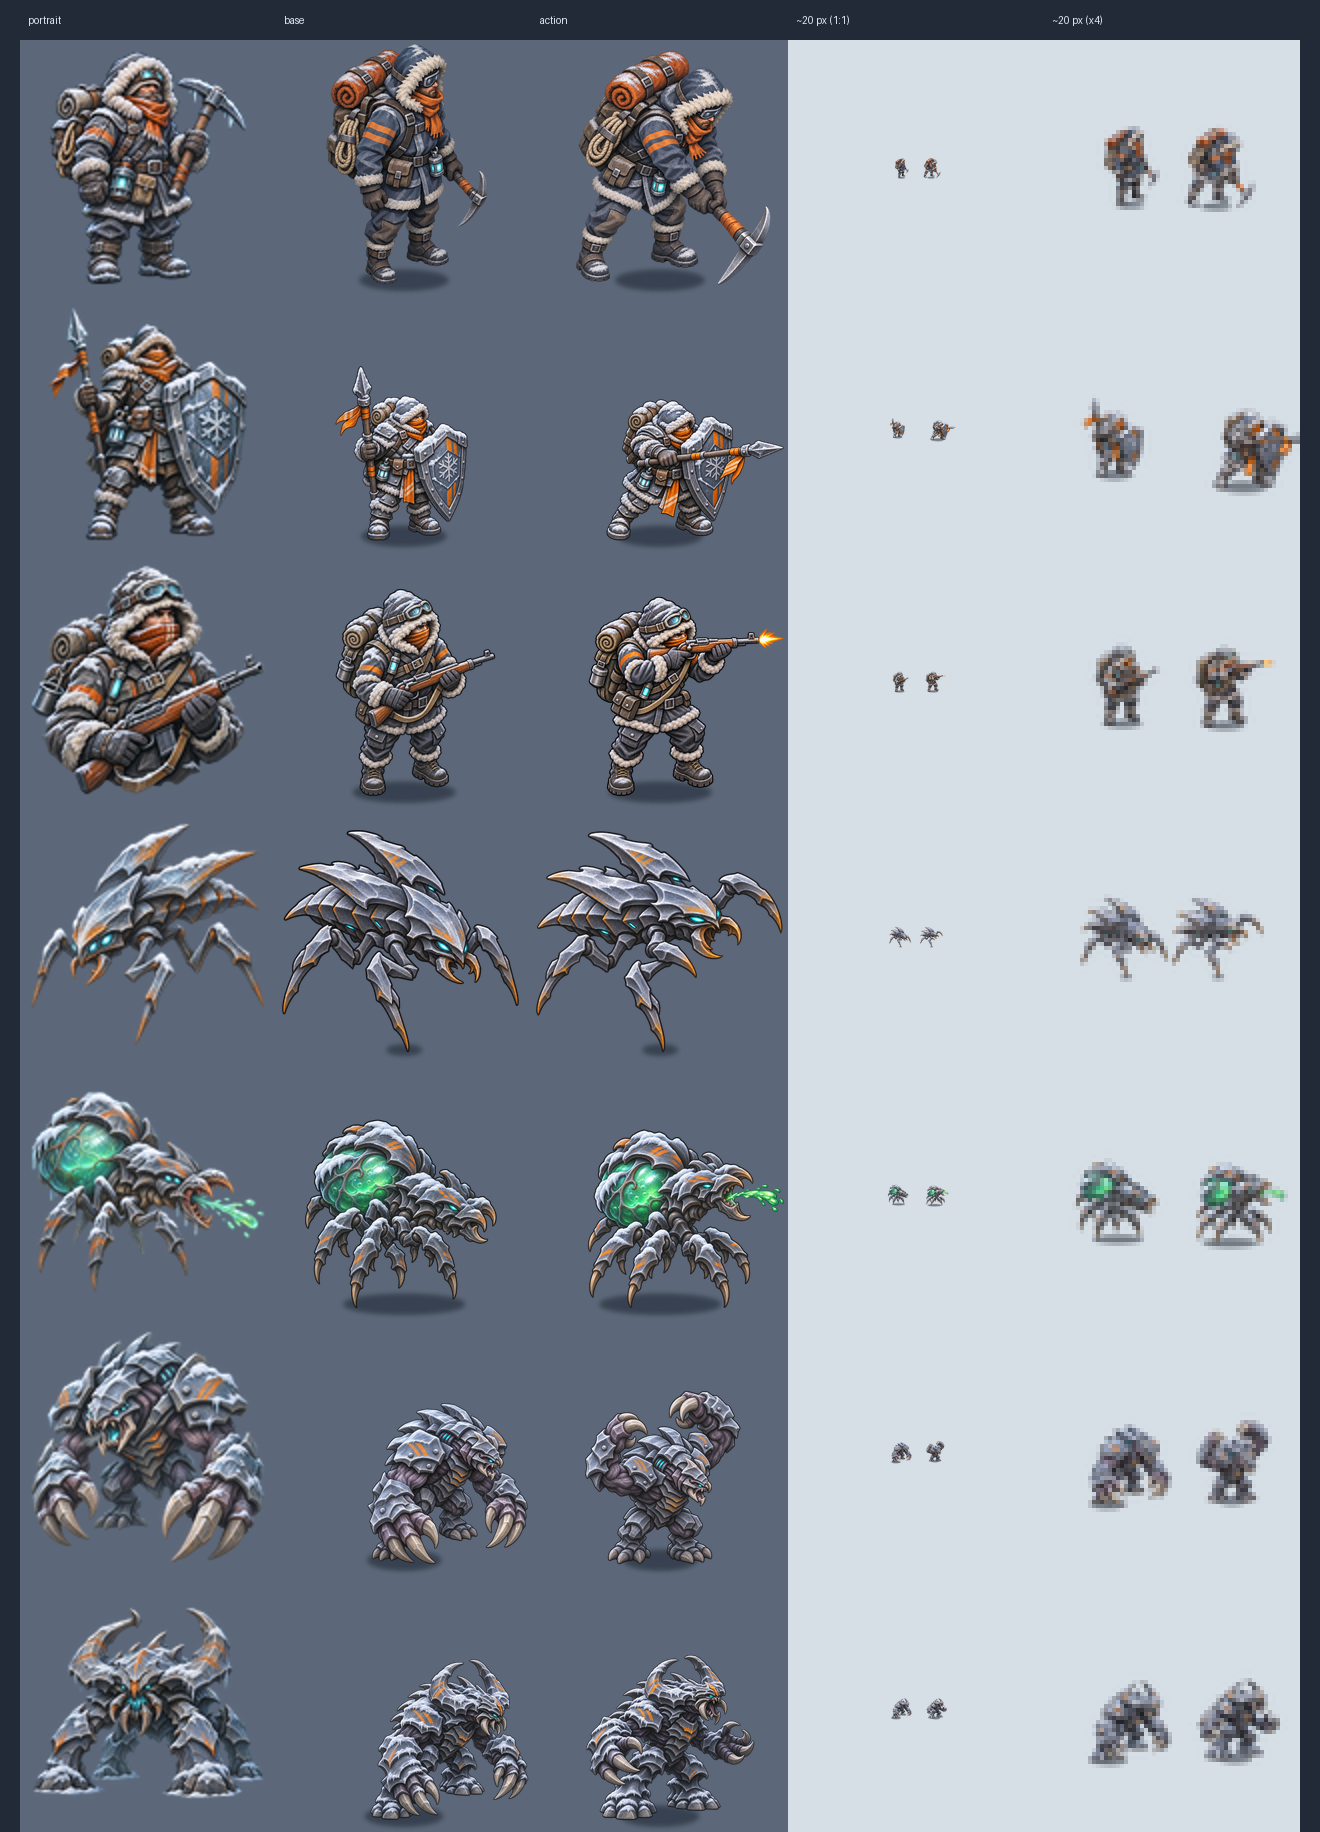
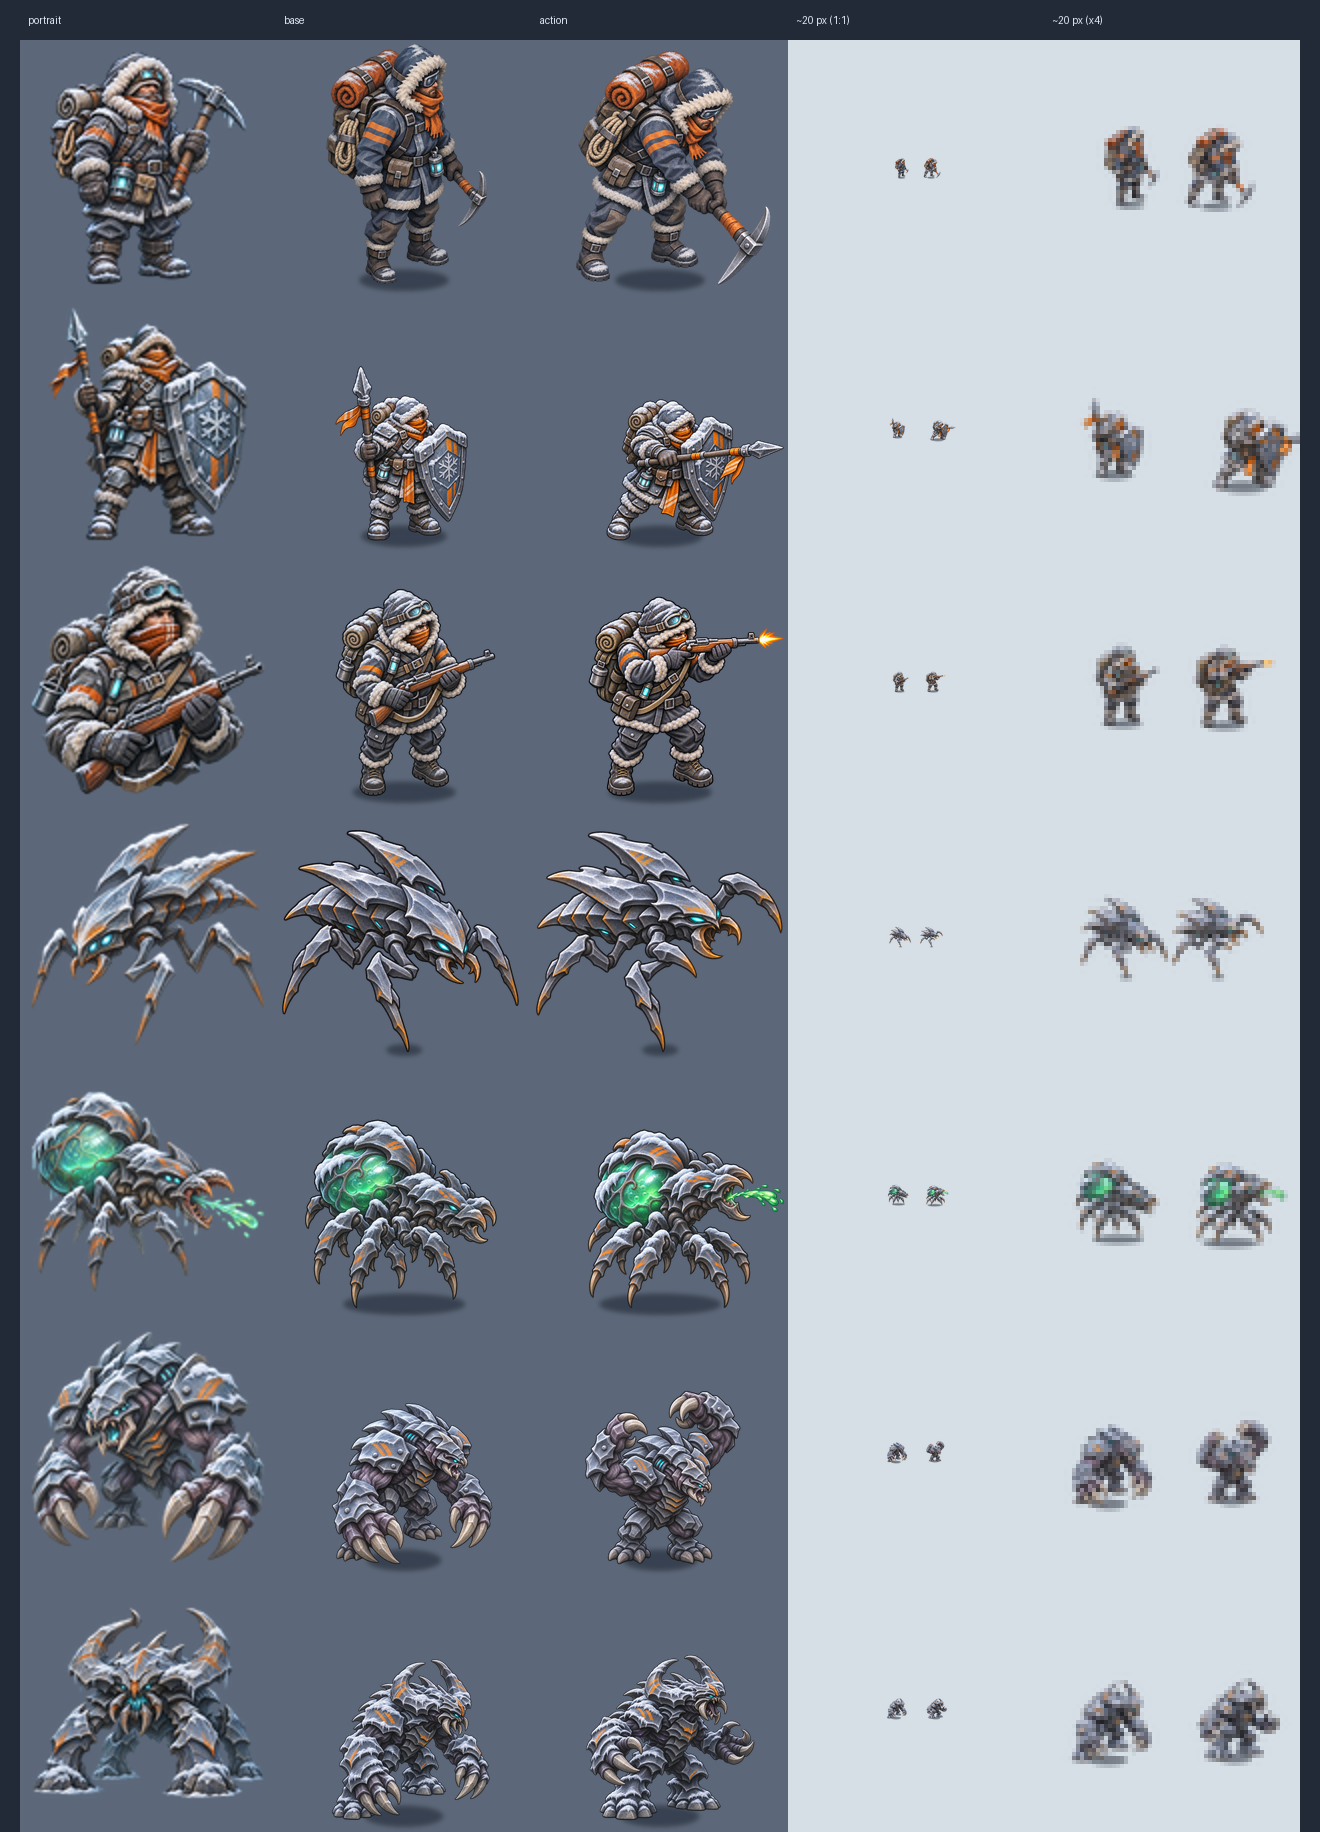
art: re-anchor Brute and Behemoth base poses over their shadow (HPA-1210)
feet() anchors the lowest 8% silhouette band, which for the Brute and
Behemoth base poses is a forward claw rather than the planted stance, so
those bodies sat ~70 px right of the baked shadow while their action
poses were centred. process.py gains an explicit per-pose OFFSET_FIX
(brute -71 px, behemoth -77 px) applied at paste time; --verify checks
those two poses against their explicit anchor. New contact sheet
anchor_check.png compares base vs action at one canvas scale/origin.

diff --git a/art-src/2026-11-26/process.py b/art-src/2026-11-26/process.py
@@ -33,6 +33,10 @@ FEET_Y = SIZE - 24  # bottom of the feet; room below for the shadow
 MARGIN = 8
 # Calibration knob: per-image scale multiplier if a raw pose came back at a different body scale.
 SCALE_FIX = {}
+# Calibration knob: per-image x offset (output px) applied at paste time. feet() anchors the lowest 8% band,
+# which for the Brute and Behemoth BASE poses is a forward claw, not the planted stance; these shift the body
+# back over the shadow so it sits where the action pose's body sits (tuned by eye on anchor_check.png).
+OFFSET_FIX = {"brute": -71, "behemoth": -77}
 
 
 def alpha(im):
@@ -82,7 +86,7 @@ def build_unit(kind):
         small = im.convert("RGBa").resize((round(im.width * s), round(im.height * s)), Image.LANCZOS).convert("RGBA")
         # paste (not alpha_composite) accepts negative offsets; onto an empty canvas it is exact
         canvas = Image.new("RGBA", (SIZE, SIZE), (0, 0, 0, 0))
-        canvas.paste(small, (round(SIZE / 2 - cx * s), round(FEET_Y - bottom * s)))
+        canvas.paste(small, (round(SIZE / 2 - cx * s) + OFFSET_FIX.get(kind + p, 0), round(FEET_Y - bottom * s)))
         out = base_shadow.copy()
         out.alpha_composite(canvas)
         out.save(UNIT_OUT / f"{kind}{p}.png", optimize=True)
@@ -118,13 +122,14 @@ def verify():
                 "transparent corners": a[[0, 0, -1, -1], [0, -1, 0, -1]].max() == 0,
                 "transparent border": max(a[0].max(), a[-1].max(), a[:, 0].max(), a[:, -1].max()) < 8,
                 "feet near bottom": SIZE - 40 <= bottom <= SIZE - 8,
-                "feet centred": abs(cx - SIZE / 2) <= 12,
+                "feet at anchor": abs(cx - SIZE / 2 - OFFSET_FIX.get(kind + p, 0)) <= 12,
             }
             bad = [k for k, ok in checks.items() if not ok]
             print(f"{'FAIL' if bad else 'ok  '} units/painted/{path.name:22} feet y={bottom} x={cx:.0f} {bad or ''}")
             errors += [f"{path.name}: {k}" for k in bad]
         if kind in anchors and kind + "_action" in anchors:
             (b0, c0), (b1, c1) = anchors[kind], anchors[kind + "_action"]
+            c0, c1 = c0 - OFFSET_FIX.get(kind, 0), c1 - OFFSET_FIX.get(kind + "_action", 0)
             if abs(b0 - b1) > 4 or abs(c0 - c1) > 8:
                 errors.append(f"{kind}: base/action feet anchors differ ({b0},{c0:.0f}) vs ({b1},{c1:.0f})")
     for n in PANELS:
@@ -175,6 +180,33 @@ def unit_sheet():
     sheet.convert("RGB").save(SHEETS / "units.png", optimize=True)
 
 
+def anchor_sheet():
+    """Per unit at ONE canvas scale and origin: base | action | overlay (base orange, action cyan).
+    The vertical line marks the canvas centre, where the baked shadow sits."""
+    cell = 256
+    sheet = Image.new("RGBA", (cell * 3 + 40, cell * len(KINDS) + 40), (34, 42, 56, 255))
+    d = ImageDraw.Draw(sheet)
+    for i, h in enumerate(["base", "action", "overlay: base orange / action cyan"]):
+        d.text((20 + i * cell + 8, 14), h, fill=(220, 230, 240, 255))
+    for r, kind in enumerate(KINDS):
+        y = 40 + r * cell
+        ims = [Image.open(UNIT_OUT / f"{kind}{p}.png").convert("RGBA").resize((cell, cell), Image.LANCZOS)
+               for p in ("", "_action")]
+        tints = []
+        for im, rgb in zip(ims, [(255, 150, 60), (80, 220, 255)]):
+            t = Image.new("RGBA", im.size, rgb + (0,))
+            t.putalpha(im.getchannel("A").point(lambda v: v * 0.6))
+            tints.append(t)
+        for c, im in enumerate([*ims, None]):
+            tile = Image.new("RGBA", (cell, cell), (92, 104, 122, 255))
+            for layer in ([im] if im else tints):
+                tile.alpha_composite(layer)
+            ImageDraw.Draw(tile).line([(cell // 2, 0), (cell // 2, cell)], fill=(255, 255, 255, 110))
+            sheet.alpha_composite(tile, (20 + c * cell, y))
+        d.text((24, y + 6), kind, fill=(255, 170, 90, 255))
+    sheet.convert("RGB").save(SHEETS / "anchor_check.png", optimize=True)
+
+
 def intro_sheet():
     """Panels 1-5 in story order (4 = Start key art, cropped 16:9). Dashed line marks the caption band."""
     w, h = 768, 432
@@ -207,6 +239,7 @@ def main():
     errors = verify()
     if "--verify" not in sys.argv:
         unit_sheet()
+        anchor_sheet()
         intro_sheet()
     print("\n".join(["", *errors, f"{len(errors)} problem(s)"]) if errors else "\nall 18 runtime files OK")
     sys.exit(1 if errors else 0)
